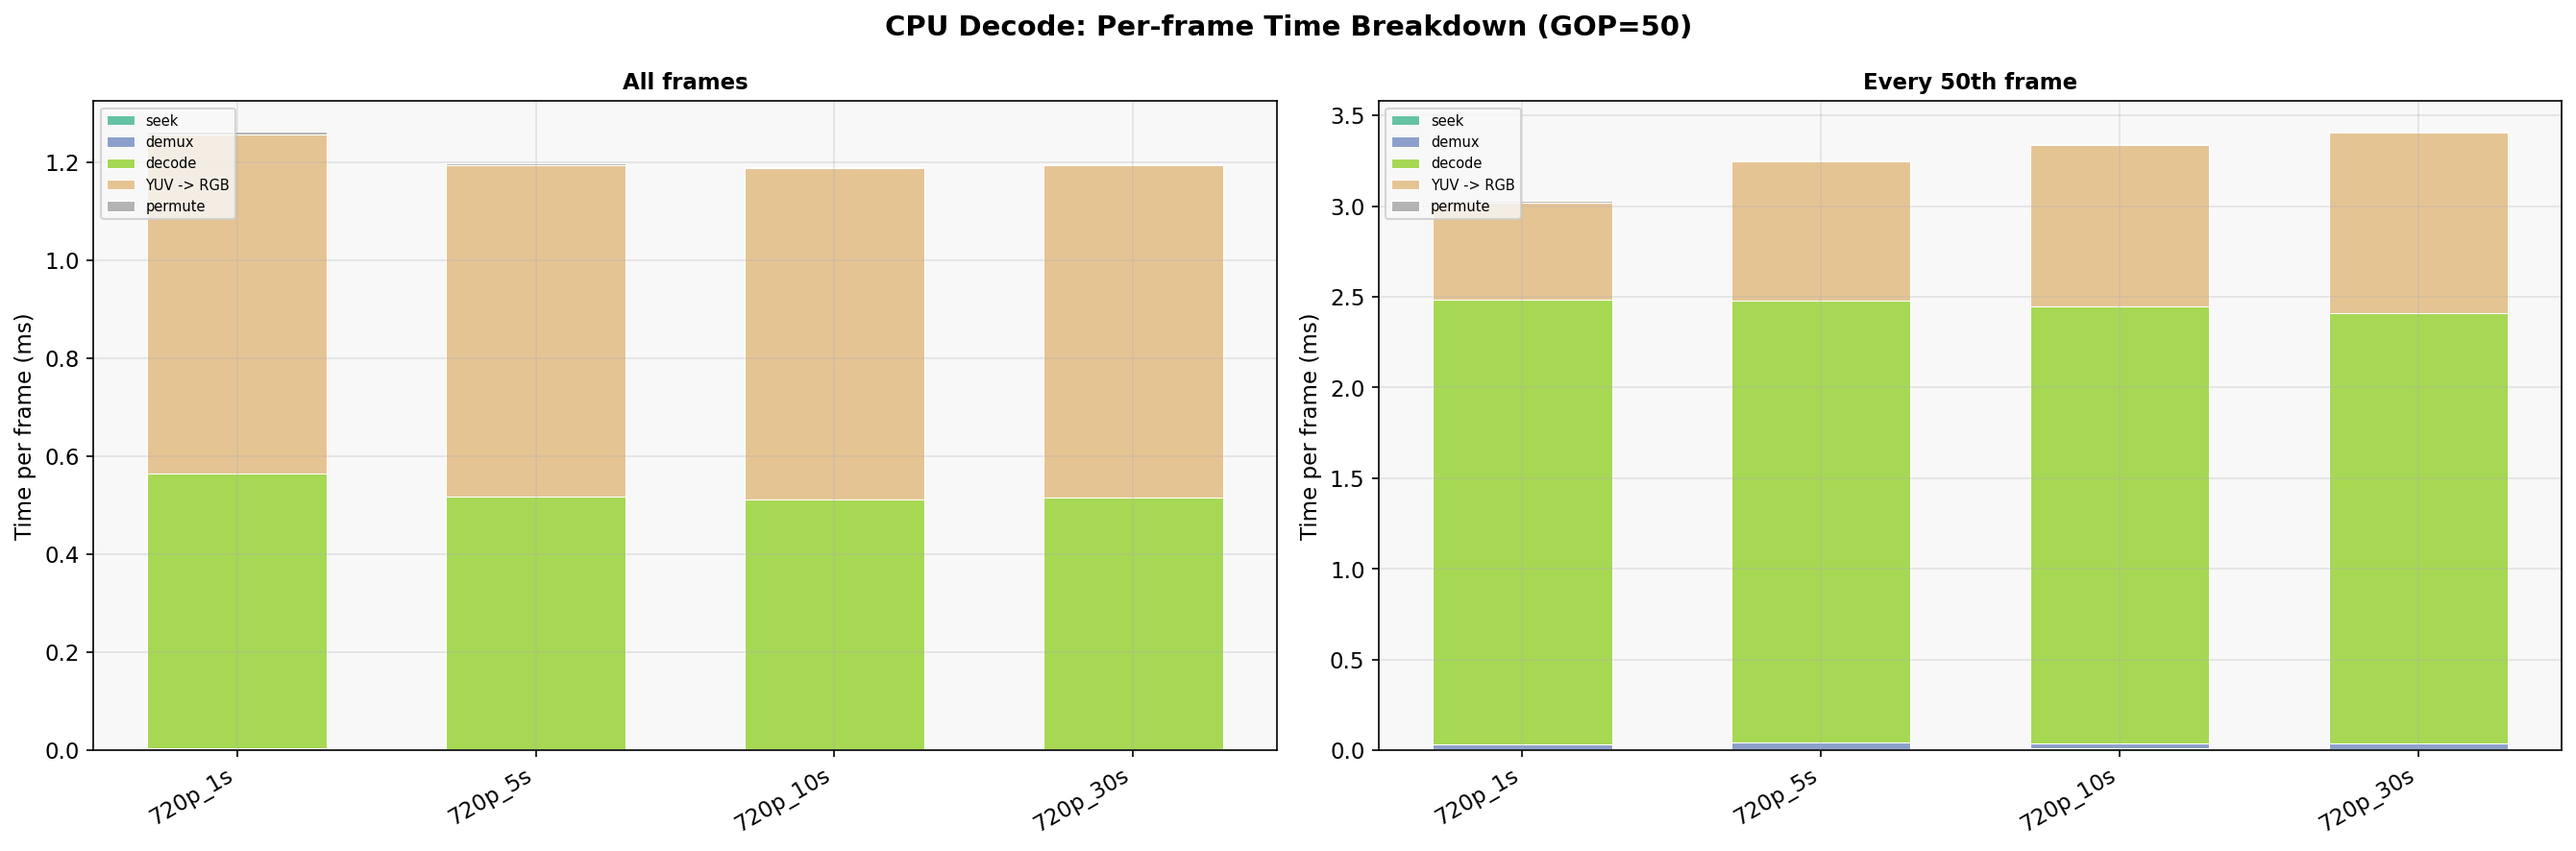
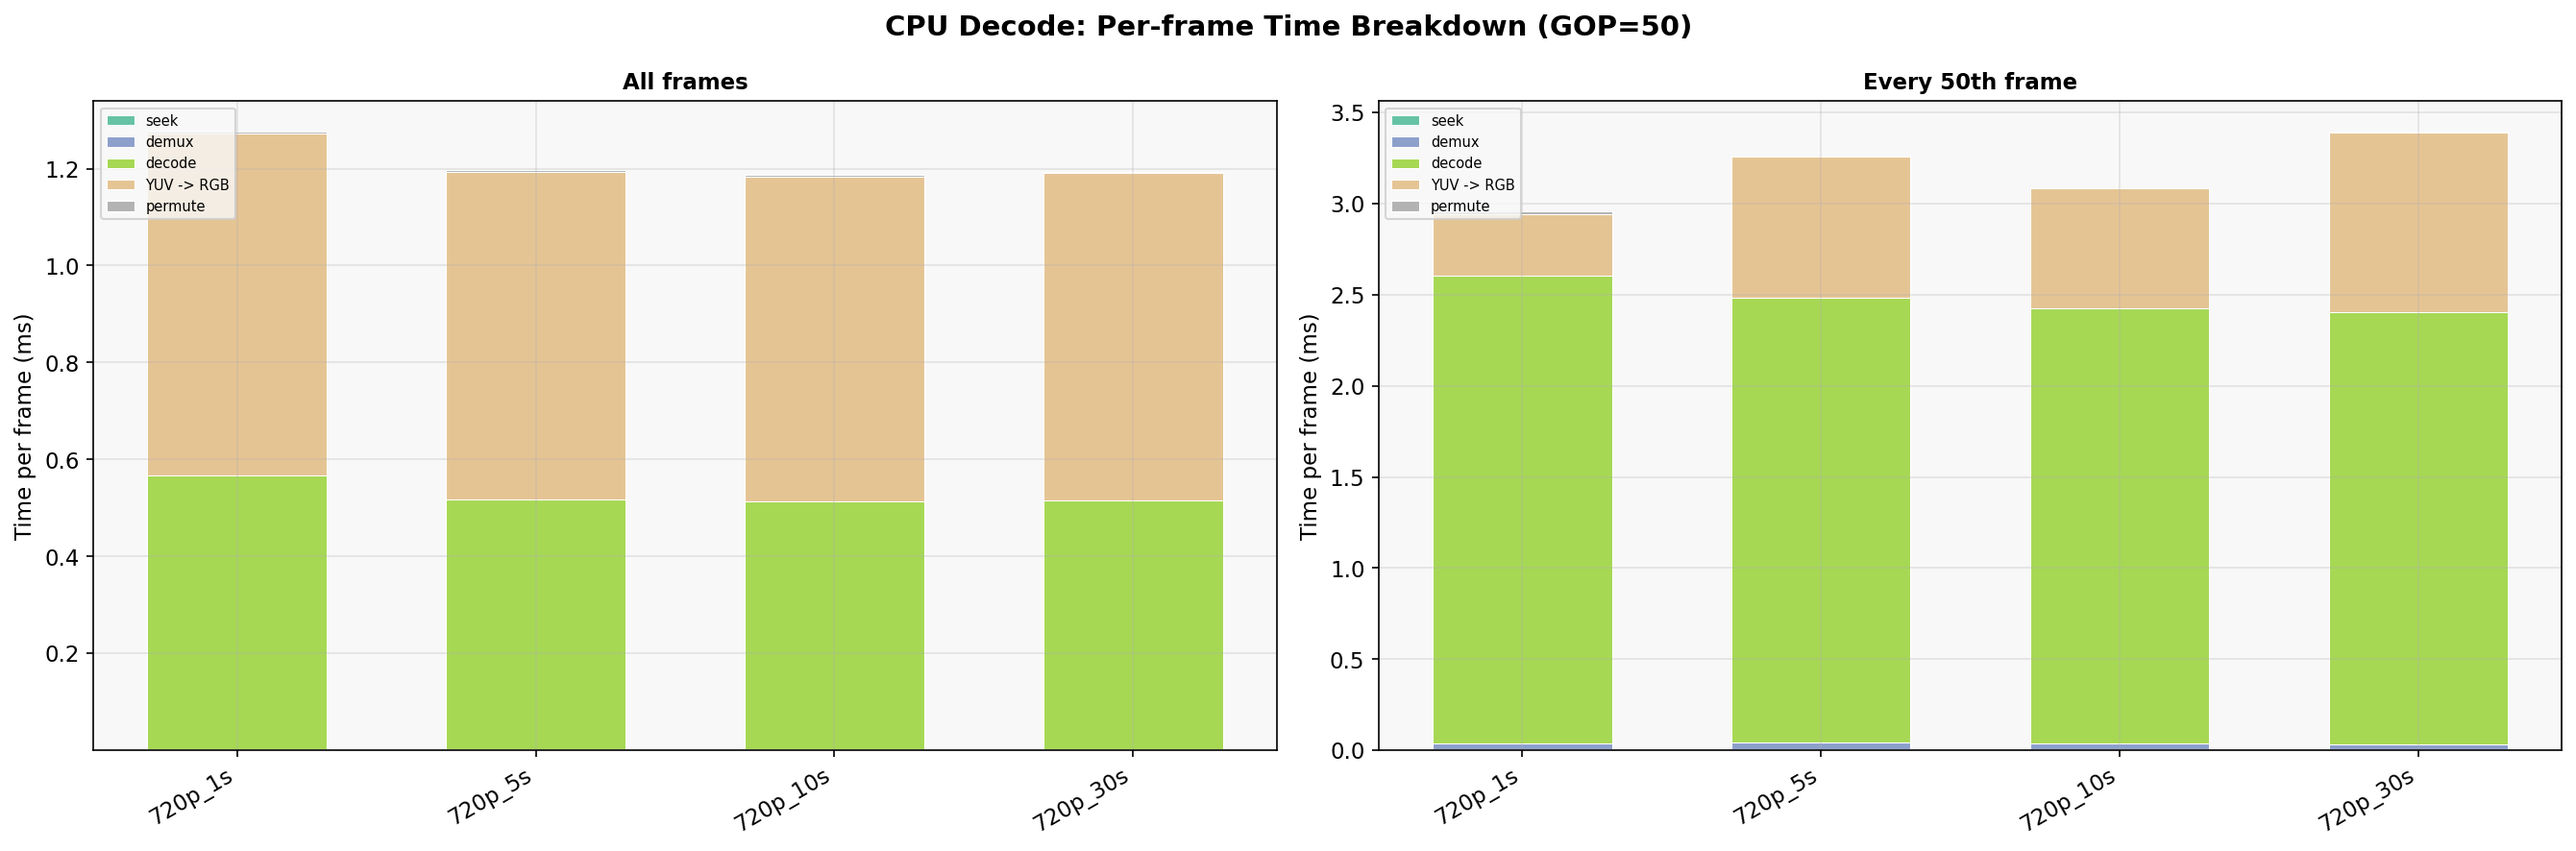
Fixes, add stuff

diff --git a/benchmarks/decoders/run_benchmark_suite.py b/benchmarks/decoders/run_benchmark_suite.py
@@ -210,6 +210,72 @@ def _make_stacked_bar_pair(
     fig.suptitle(title, fontsize=14, fontweight="bold")
 
 
+def _make_stats_pair(
+    fig, all_results, step_results, labels, step, is_cuda=False,
+):
+    """Draw 2 side-by-side bar charts showing packet/seek/frame counts."""
+    import numpy as np
+
+    ax_all, ax_step = fig.subplots(1, 2)
+
+    # Which timer gives us "packets decoded"?
+    decode_key = "packet_parse_and_decode" if is_cuda else "decode"
+
+    stat_defs = [
+        ("seeks", "seek"),
+        ("packets read", "demux"),
+        ("packets decoded", decode_key),
+    ]
+    if is_cuda:
+        stat_defs.append(("frames mapped", "map_frame"))
+
+    colors = ["#4e79a7", "#f28e2b", "#e15759", "#76b7b2"]
+
+    for ax, results, title in [
+        (ax_all, all_results, "All frames"),
+        (ax_step, step_results, f"Every {step}th frame"),
+    ]:
+        x = np.arange(len(labels))
+        width = 0.8 / (len(stat_defs) + 1)  # +1 for "frames output"
+
+        for si, (stat_name, timer_key) in enumerate(stat_defs):
+            vals = []
+            for l in labels:
+                r, nf = results[l]
+                count = r[timer_key][1] if timer_key in r else 0
+                vals.append(count)
+            ax.bar(x + si * width, vals, width, label=stat_name,
+                   color=colors[si % len(colors)], edgecolor="white", linewidth=0.5)
+
+        # frames output
+        si = len(stat_defs)
+        vals = [results[l][1] for l in labels]
+        ax.bar(x + si * width, vals, width, label="frames output",
+               color="#59a14f", edgecolor="white", linewidth=0.5)
+
+        ax.set_xticks(x + width * len(stat_defs) / 2)
+        ax.set_xticklabels(labels, rotation=30, ha="right")
+        ax.set_ylabel("Count")
+        ax.set_title(title, fontsize=11, fontweight="bold")
+        ax.legend(loc="upper left", fontsize=7)
+
+        # Annotate packets-per-frame ratio
+        for i, l in enumerate(labels):
+            r, nf = results[l]
+            n_decoded = r[decode_key][1] if decode_key in r else 0
+            if nf > 0:
+                ratio = n_decoded / nf
+                # Put annotation above the tallest bar for this label
+                max_val = max(
+                    r.get(k, (0, 0))[1] for _, k in stat_defs
+                )
+                max_val = max(max_val, nf)
+                ax.text(x[i] + width * len(stat_defs) / 2,
+                        max_val + max_val * 0.02,
+                        f"{ratio:.1f}x", ha="center", va="bottom",
+                        fontsize=8, fontweight="bold", color="#e15759")
+
+
 def make_plots(cpu_all, cpu_step, cuda_all, cuda_step, output_dir, step, labels, gop,
                use_cache=True):
     import matplotlib.pyplot as plt
@@ -264,6 +330,17 @@ def make_plots(cpu_all, cpu_step, cuda_all, cuda_step, output_dir, step, labels,
         print(f"  Saved {path}")
         plot_idx += 1
 
+        # ─── CPU stats: packet/seek counts ───
+        fig = plt.figure(figsize=(14, 5))
+        _make_stats_pair(fig, cpu_all, cpu_step, labels, step, is_cuda=False)
+        fig.suptitle(f"CPU Decode: Packet & Seek Counts {gop_info}", fontsize=14, fontweight="bold")
+        plt.tight_layout()
+        path = os.path.join(output_dir, f"{plot_idx:02d}_cpu_stats.png")
+        plt.savefig(path, dpi=150, bbox_inches="tight")
+        plt.close()
+        print(f"  Saved {path}")
+        plot_idx += 1
+
     # ─── CUDA breakdown: per-frame ───
     if cuda_all:
         cuda_cmap = plt.cm.tab20(np.linspace(0, 1, len(CUDA_LEAF_CATEGORIES)))
@@ -290,6 +367,20 @@ def make_plots(cpu_all, cpu_step, cuda_all, cuda_step, output_dir, step, labels,
         )
         plt.tight_layout()
         path = os.path.join(output_dir, f"{plot_idx:02d}_cuda_total{cache_suffix}.png")
+        plt.savefig(path, dpi=150, bbox_inches="tight")
+        plt.close()
+        print(f"  Saved {path}")
+        plot_idx += 1
+
+        # ─── CUDA stats: packet/seek counts ───
+        fig = plt.figure(figsize=(14, 5))
+        _make_stats_pair(fig, cuda_all, cuda_step, labels, step, is_cuda=True)
+        fig.suptitle(
+            f"CUDA (beta) Decode: Packet & Seek Counts {gop_info}{cache_info} — {gpu_name}",
+            fontsize=14, fontweight="bold",
+        )
+        plt.tight_layout()
+        path = os.path.join(output_dir, f"{plot_idx:02d}_cuda_stats{cache_suffix}.png")
         plt.savefig(path, dpi=150, bbox_inches="tight")
         plt.close()
         print(f"  Saved {path}")

diff --git a/src/torchcodec/_core/SingleStreamDecoder.cpp b/src/torchcodec/_core/SingleStreamDecoder.cpp
@@ -1270,7 +1270,6 @@ bool SingleStreamDecoder::canWeAvoidSeeking() const {
 // AVFormatContext if it is needed. We can skip seeking in certain cases. See
 // the comment of canWeAvoidSeeking() for details.
 void SingleStreamDecoder::maybeSeekToBeforeDesiredPts() {
-  BENCHMARK_TIMER("seek");
   validateActiveStream();
   StreamInfo& streamInfo = streamInfos_[activeStreamIndex_];
 
@@ -1279,6 +1278,8 @@ void SingleStreamDecoder::maybeSeekToBeforeDesiredPts() {
     decodeStats_.numSeeksSkipped++;
     return;
   }
+
+  BENCHMARK_TIMER("seek");
 
   int64_t desiredPts = cursor_;
 
